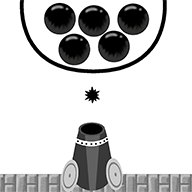
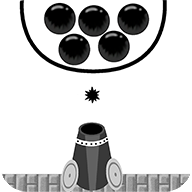
Background Image Added

Changed region(s): [[0.875, 0.9062, 1.0, 1.0], [0.0, 0.9062, 0.125, 1.0], [0.0938, 0.0, 0.125, 0.0312]]

diff --git a/app/assets/stylesheets/custom.scss b/app/assets/stylesheets/custom.scss
@@ -135,6 +135,8 @@ header{
   -webkit-box-align: center;
   justify-content: center;
   align-items: center;
+  background-image: url(image_path('pexels-photo-442574.jpg'));
+  background-size: 100% auto;
   //Temporary Testing Purposes
   //border-style: solid;
   //border-width: 2px;
@@ -288,8 +290,6 @@ header{
       width: 10%;
       vertical-align: middle;
       display: inline-block;
-      border: 0 solid white;
-      border-radius: 11px;
       transition: transform 0.3s;
       -moz-transition: transform 0.3s;
       -webkit-transition: transform 0.3s;
